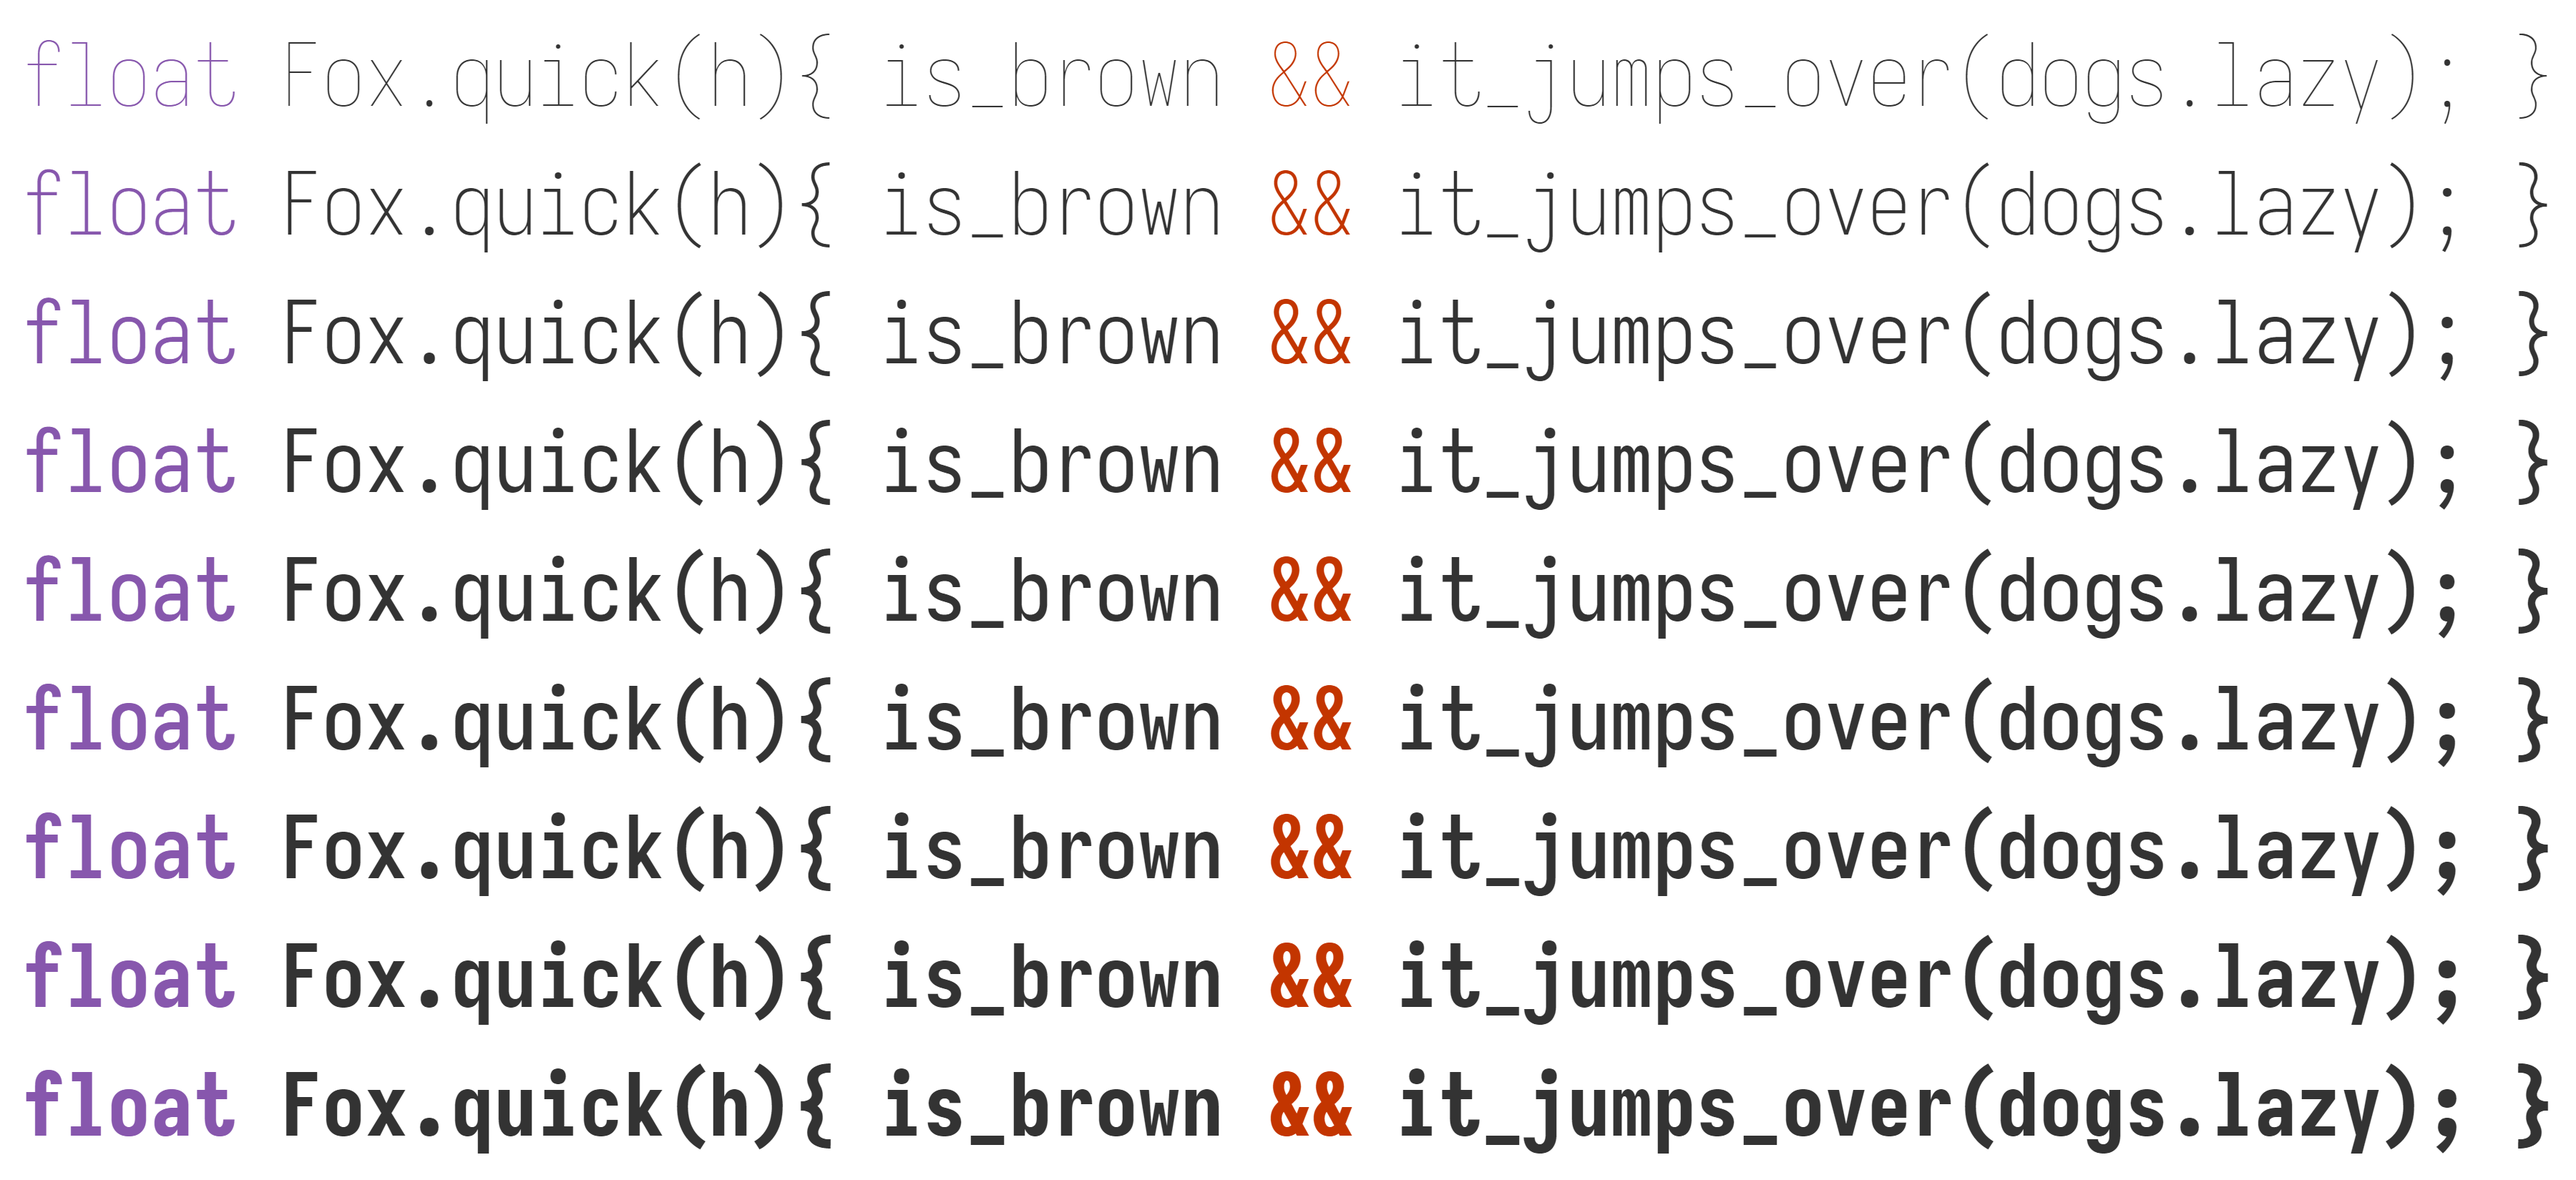
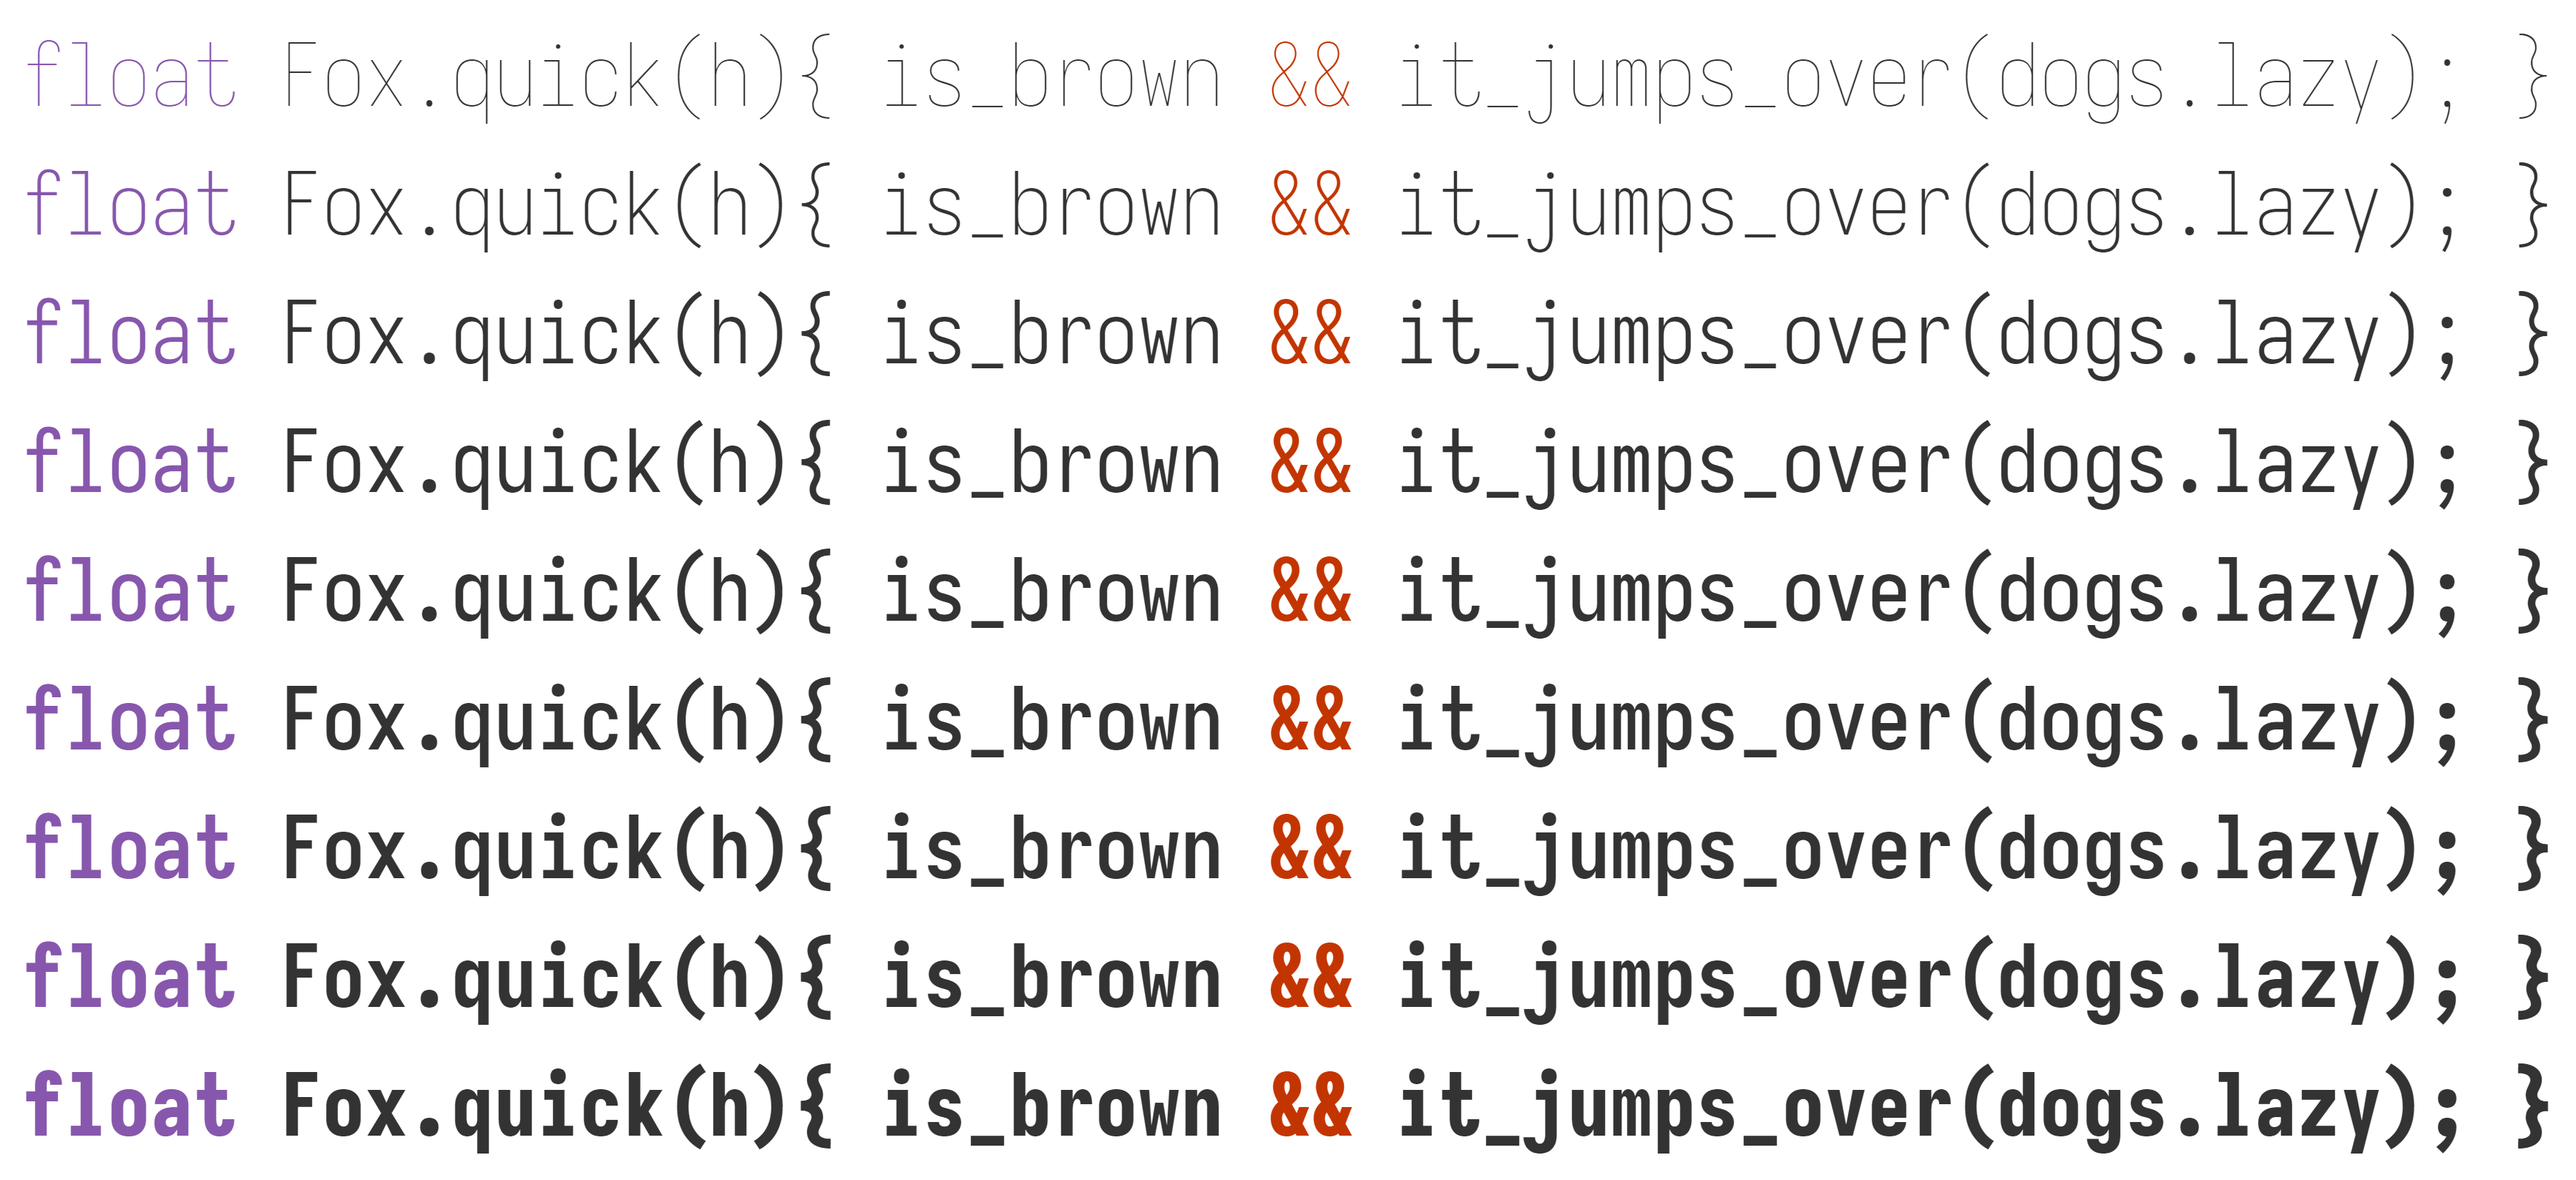
Release 6.0.1

diff --git a/CHANGELOG.md b/CHANGELOG.md
@@ -1,5 +1,10 @@
 ## Modifications since version 2.x
 
+### 6.0.1
+
+ * Increase weight of bolder weight grades for better distinction with lighter weights (#964).
+
+
 ### 6.0.0
 
  * \[**Breaking**\]: The grades for width is updated to make the unit width of Extended subfamily being 0.6em.
